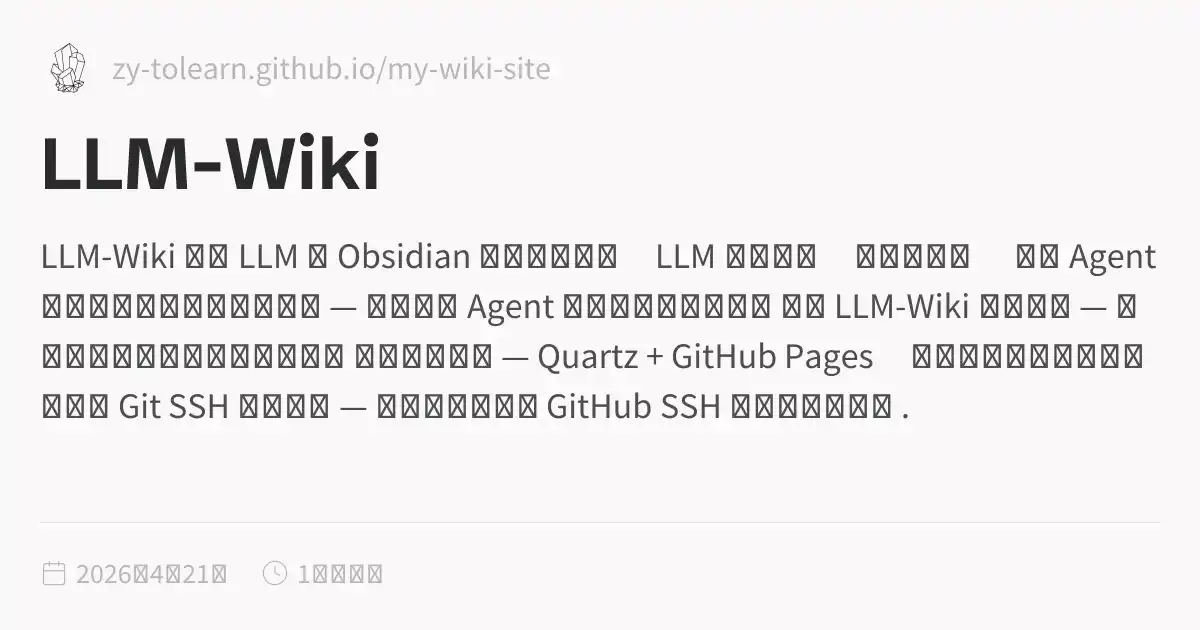
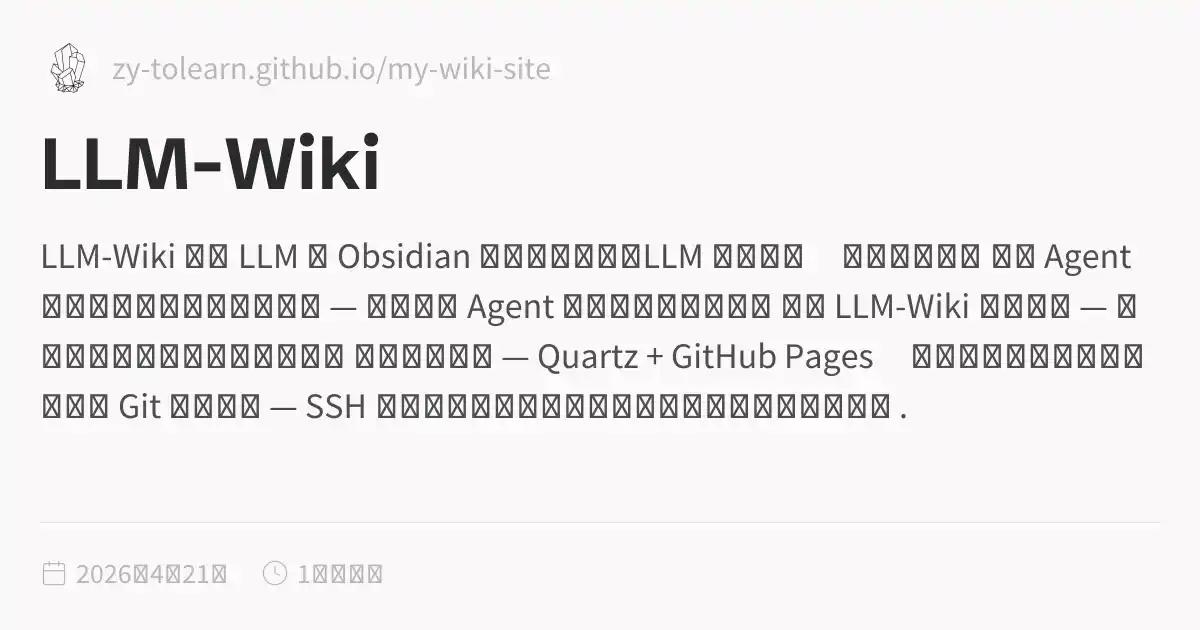
deploy: Zy-Tolearn/LLM-Wiki@4b25b708809fc4e64622458ff9b30b05627f9843

Changed region(s): [[0.4933, 0.3619, 0.9867, 0.4524], [0.4317, 0.6032, 0.74, 0.6635], [0.1233, 0.6032, 0.3083, 0.6635]]

diff --git a/index.html b/index.html
@@ -1,5 +1,5 @@
 <!DOCTYPE html>
-<html lang="zh" dir="ltr"><head><title>LLM-Wiki</title><meta charset="utf-8"/><link rel="preconnect" href="https://fonts.googleapis.com"/><link rel="preconnect" href="https://fonts.gstatic.com"/><link rel="stylesheet" href="https://fonts.googleapis.com/css2?family=Schibsted Grotesk:wght@400;700&amp;family=Source Sans Pro:ital,wght@0,400;0,600;1,400;1,600&amp;family=IBM Plex Mono:wght@400;600&amp;display=swap"/><link rel="preconnect" href="https://cdnjs.cloudflare.com" crossorigin="anonymous"/><meta name="viewport" content="width=device-width, initial-scale=1.0"/><meta name="og:site_name" content="LLM-Wiki"/><meta property="og:title" content="LLM-Wiki"/><meta property="og:type" content="website"/><meta name="twitter:card" content="summary_large_image"/><meta name="twitter:title" content="LLM-Wiki"/><meta name="twitter:description" content="LLM-Wiki 基于 LLM 与 Obsidian 的个人知识库。LLM 负责簿记，人负责策展。 文章 Agent 意图判断与连续执行方法论 — 构建好用 Agent 的工程化八步流水线 流程 LLM-Wiki 搭建流程 — 从零搭建的完整步骤与踩坑记录 博客发布流程 — Quartz + GitHub Pages，私有仓库构建推送到公开仓库 Git SSH 配置指南 — 公钥私钥原理与 GitHub SSH 连接配置全流程 ."/><meta property="og:description" content="LLM-Wiki 基于 LLM 与 Obsidian 的个人知识库。LLM 负责簿记，人负责策展。 文章 Agent 意图判断与连续执行方法论 — 构建好用 Agent 的工程化八步流水线 流程 LLM-Wiki 搭建流程 — 从零搭建的完整步骤与踩坑记录 博客发布流程 — Quartz + GitHub Pages，私有仓库构建推送到公开仓库 Git SSH 配置指南 — 公钥私钥原理与 GitHub SSH 连接配置全流程 ."/><meta property="og:image:alt" content="LLM-Wiki 基于 LLM 与 Obsidian 的个人知识库。LLM 负责簿记，人负责策展。 文章 Agent 意图判断与连续执行方法论 — 构建好用 Agent 的工程化八步流水线 流程 LLM-Wiki 搭建流程 — 从零搭建的完整步骤与踩坑记录 博客发布流程 — Quartz + GitHub Pages，私有仓库构建推送到公开仓库 Git SSH 配置指南 — 公钥私钥原理与 GitHub SSH 连接配置全流程 ."/><meta property="twitter:domain" content="zy-tolearn.github.io/my-wiki-site"/><meta property="og:url" content="https://zy-tolearn.github.io/my-wiki-site/index"/><meta property="twitter:url" content="https://zy-tolearn.github.io/my-wiki-site/index"/><link rel="icon" href="./static/icon.png"/><meta name="description" content="LLM-Wiki 基于 LLM 与 Obsidian 的个人知识库。LLM 负责簿记，人负责策展。 文章 Agent 意图判断与连续执行方法论 — 构建好用 Agent 的工程化八步流水线 流程 LLM-Wiki 搭建流程 — 从零搭建的完整步骤与踩坑记录 博客发布流程 — Quartz + GitHub Pages，私有仓库构建推送到公开仓库 Git SSH 配置指南 — 公钥私钥原理与 GitHub SSH 连接配置全流程 ."/><meta name="generator" content="Quartz"/><link href="./index.css" rel="stylesheet" type="text/css" data-persist="true"/><style>.expand-button {
+<html lang="zh" dir="ltr"><head><title>LLM-Wiki</title><meta charset="utf-8"/><link rel="preconnect" href="https://fonts.googleapis.com"/><link rel="preconnect" href="https://fonts.gstatic.com"/><link rel="stylesheet" href="https://fonts.googleapis.com/css2?family=Schibsted Grotesk:wght@400;700&amp;family=Source Sans Pro:ital,wght@0,400;0,600;1,400;1,600&amp;family=IBM Plex Mono:wght@400;600&amp;display=swap"/><link rel="preconnect" href="https://cdnjs.cloudflare.com" crossorigin="anonymous"/><meta name="viewport" content="width=device-width, initial-scale=1.0"/><meta name="og:site_name" content="LLM-Wiki"/><meta property="og:title" content="LLM-Wiki"/><meta property="og:type" content="website"/><meta name="twitter:card" content="summary_large_image"/><meta name="twitter:title" content="LLM-Wiki"/><meta name="twitter:description" content="LLM-Wiki 基于 LLM 与 Obsidian 的个人知识库。LLM 负责簿记，人负责策展。 文章 Agent 意图判断与连续执行方法论 — 构建好用 Agent 的工程化八步流水线 流程 LLM-Wiki 搭建流程 — 从零搭建的完整步骤与踩坑记录 博客发布流程 — Quartz + GitHub Pages，私有仓库构建推送到公开仓库 Git 实战指南 — SSH 配置、日常提交推送、同步拉取与冲突解决全流程 ."/><meta property="og:description" content="LLM-Wiki 基于 LLM 与 Obsidian 的个人知识库。LLM 负责簿记，人负责策展。 文章 Agent 意图判断与连续执行方法论 — 构建好用 Agent 的工程化八步流水线 流程 LLM-Wiki 搭建流程 — 从零搭建的完整步骤与踩坑记录 博客发布流程 — Quartz + GitHub Pages，私有仓库构建推送到公开仓库 Git 实战指南 — SSH 配置、日常提交推送、同步拉取与冲突解决全流程 ."/><meta property="og:image:alt" content="LLM-Wiki 基于 LLM 与 Obsidian 的个人知识库。LLM 负责簿记，人负责策展。 文章 Agent 意图判断与连续执行方法论 — 构建好用 Agent 的工程化八步流水线 流程 LLM-Wiki 搭建流程 — 从零搭建的完整步骤与踩坑记录 博客发布流程 — Quartz + GitHub Pages，私有仓库构建推送到公开仓库 Git 实战指南 — SSH 配置、日常提交推送、同步拉取与冲突解决全流程 ."/><meta property="twitter:domain" content="zy-tolearn.github.io/my-wiki-site"/><meta property="og:url" content="https://zy-tolearn.github.io/my-wiki-site/index"/><meta property="twitter:url" content="https://zy-tolearn.github.io/my-wiki-site/index"/><link rel="icon" href="./static/icon.png"/><meta name="description" content="LLM-Wiki 基于 LLM 与 Obsidian 的个人知识库。LLM 负责簿记，人负责策展。 文章 Agent 意图判断与连续执行方法论 — 构建好用 Agent 的工程化八步流水线 流程 LLM-Wiki 搭建流程 — 从零搭建的完整步骤与踩坑记录 博客发布流程 — Quartz + GitHub Pages，私有仓库构建推送到公开仓库 Git 实战指南 — SSH 配置、日常提交推送、同步拉取与冲突解决全流程 ."/><meta name="generator" content="Quartz"/><link href="./index.css" rel="stylesheet" type="text/css" data-persist="true"/><style>.expand-button {
   position: absolute;
   display: flex;
   float: right;
@@ -115,7 +115,7 @@ pre:hover > .expand-button {
   padding: 0 12px;
   font-size: 14px;
 }
[2 lines of base64/hex data omitted]
 <p>基于 LLM 与 Obsidian 的个人知识库。LLM 负责簿记，人负责策展。</p>
 <h2 id="文章">文章<a role="anchor" aria-hidden="true" tabindex="-1" data-no-popover="true" href="#文章" class="internal"><svg width="18" height="18" viewBox="0 0 24 24" fill="none" stroke="currentColor" stroke-width="2" stroke-linecap="round" stroke-linejoin="round"><path d="M10 13a5 5 0 0 0 7.54.54l3-3a5 5 0 0 0-7.07-7.07l-1.72 1.71"></path><path d="M14 11a5 5 0 0 0-7.54-.54l-3 3a5 5 0 0 0 7.07 7.07l1.71-1.71"></path></svg></a></h2>
 <ul>
@@ -125,7 +125,7 @@ pre:hover > .expand-button {
 <ul>
 <li><a href="./analyses/llm-wiki搭建流程" class="internal alias" data-slug="analyses/llm-wiki搭建流程">LLM-Wiki 搭建流程</a> — 从零搭建的完整步骤与踩坑记录</li>
 <li><a href="./analyses/博客发布流程" class="internal alias" data-slug="analyses/博客发布流程">博客发布流程</a> — Quartz + GitHub Pages，私有仓库构建推送到公开仓库</li>
-<li><a href="./analyses/git-ssh配置指南" class="internal alias" data-slug="analyses/git-ssh配置指南">Git SSH 配置指南</a> — 公钥私钥原理与 GitHub SSH 连接配置全流程</li>
+<li><a href="./analyses/git-ssh配置指南" class="internal alias" data-slug="analyses/git-ssh配置指南">Git 实战指南</a> — SSH 配置、日常提交推送、同步拉取与冲突解决全流程</li>
 </ul></article><hr/><div class="page-footer"></div></div><div class="right sidebar"><div class="graph"><h3>关系图谱</h3><div class="graph-outer"><div class="graph-container" data-cfg="{&quot;drag&quot;:true,&quot;zoom&quot;:true,&quot;depth&quot;:1,&quot;scale&quot;:1.1,&quot;repelForce&quot;:0.5,&quot;centerForce&quot;:0.3,&quot;linkDistance&quot;:30,&quot;fontSize&quot;:0.6,&quot;opacityScale&quot;:1,&quot;showTags&quot;:true,&quot;removeTags&quot;:[],&quot;focusOnHover&quot;:false,&quot;enableRadial&quot;:false}"></div><button class="global-graph-icon" aria-label="Global Graph"><svg version="1.1" xmlns="http://www.w3.org/2000/svg" xmlns:xlink="http://www.w3.org/1999/xlink" x="0px" y="0px" viewBox="0 0 55 55" fill="currentColor" xml:space="preserve"><path d="M49,0c-3.309,0-6,2.691-6,6c0,1.035,0.263,2.009,0.726,2.86l-9.829,9.829C32.542,17.634,30.846,17,29,17
                 s-3.542,0.634-4.898,1.688l-7.669-7.669C16.785,10.424,17,9.74,17,9c0-2.206-1.794-4-4-4S9,6.794,9,9s1.794,4,4,4
                 c0.74,0,1.424-0.215,2.019-0.567l7.669,7.669C21.634,21.458,21,23.154,21,25s0.634,3.542,1.688,4.897L10.024,42.562
